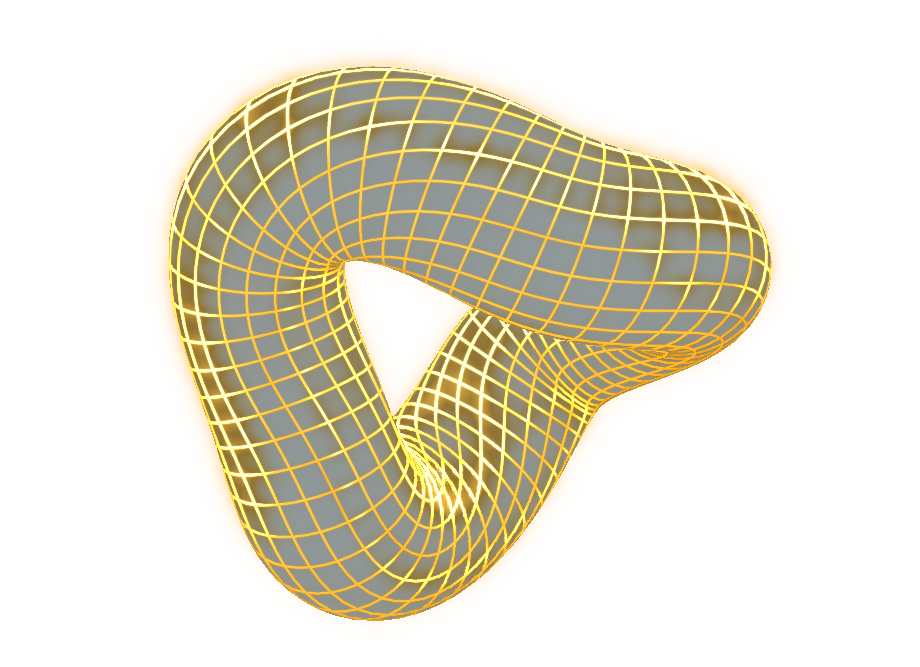
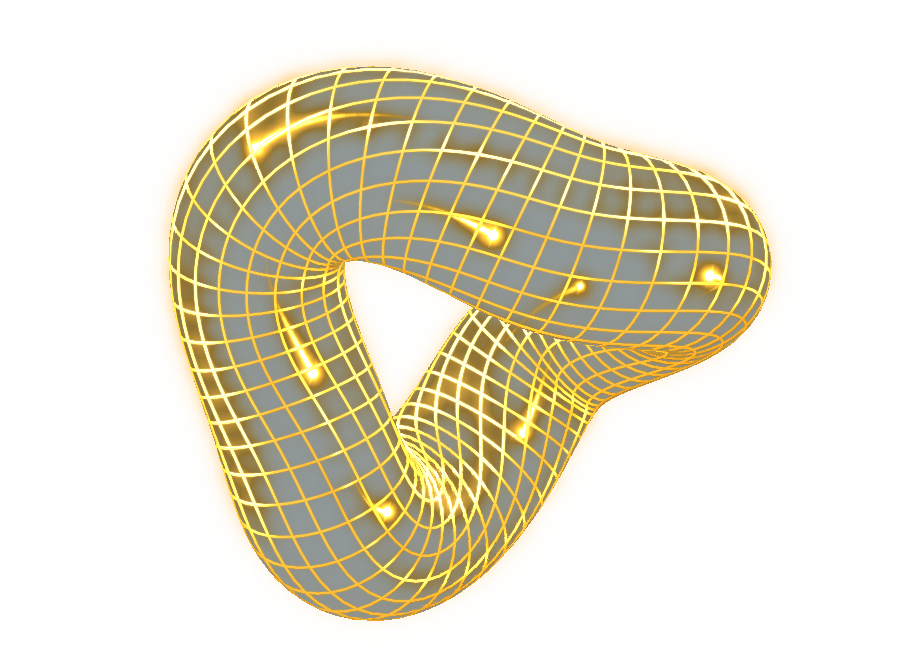
Animate seven gold meteors inside the rolling mesh

diff --git a/showcase/assets/manifold-motion.js b/showcase/assets/manifold-motion.js
@@ -22,10 +22,10 @@
 
   // An orthonormal frame keeps the tube circular even on steep bends.
   // The longitudinal grid rotates half a turn before the two ends meet.
-  function surface(u, v) {
+  function surface(u, v, radialFraction=1) {
     const cu=Math.cos(u), su=Math.sin(u);
     const major=1.35+.155*Math.cos(3*u+.4);
-    const radius=.605+.035*Math.sin(2*u-.45);
+    const radius=radialFraction*(.605+.035*Math.sin(2*u-.45));
     const majorSlope=-.465*Math.sin(3*u+.4);
     const tx=majorSlope*cu-major*su, ty=majorSlope*su+major*cu;
     const tz=.99*Math.cos(2*u+.6);
@@ -239,6 +239,96 @@
     }
   }
 
+  // The seven lanes share the mesh's centreline and stay inside its wall.
+  const meteors = [
+    {start:.025, turns:1, lane:.26, spread:.48, tail:.56},
+    {start:.171, turns:-1, lane:2.3, spread:.38, tail:.49},
+    {start:.315, turns:1, lane:4.8, spread:.55, tail:.58},
+    {start:.456, turns:2, lane:1.4, spread:.44, tail:.63},
+    {start:.607, turns:1, lane:3.6, spread:.33, tail:.47},
+    {start:.751, turns:-1, lane:5.4, spread:.50, tail:.55},
+    {start:.879, turns:1, lane:2.8, spread:.46, tail:.52}
+  ];
+  let meteorLight;
+  const illuminated = [];
+  const tailSteps = 18;
+  function meteorPosition(meteor,u,camera) {
+    // Cancel the wall's half-twist so each interior path joins after one turn.
+    const lane=meteor.lane+.85*Math.sin(2*u+meteor.lane)-u*.5;
+    const p=surface(u,lane,meteor.spread);
+    const depth=camera.zx*p.x+camera.zy*p.y+camera.zz*p.z;
+    const scale=130*pixelScale/(1-depth/13);
+    return {
+      x:width*pixelScale*.5+scale*(camera.xx*p.x+camera.xy*p.y+camera.xz*p.z),
+      y:height*pixelScale*.5-scale*(camera.yx*p.x+camera.yy*p.y+camera.yz*p.z),
+      depth, scale:scale/130
+    };
+  }
+  function lightMeteorPixel(k,z,brightness) {
+    const separation=depths[k]-z;
+    if(separation<0) return;
+    // Opaque wires hide the meteor. The far bend also dims it at crossings.
+    const transmission=(255-(pixels[k]>>>24))/138;
+    const strength=Math.round(255*clamp(brightness*transmission/(1+.55*Math.max(0,separation-.8))));
+    if(strength<=meteorLight[k]) return;
+    if(!meteorLight[k]) illuminated.push(k);
+    meteorLight[k]=strength;
+  }
+  function meteorSegment(a,b,fraction) {
+    const dx=b.x-a.x, dy=b.y-a.y, lengthSq=dx*dx+dy*dy;
+    const radius=(.65+2.7*fraction)*b.scale;
+    const reach=3.6*radius, w=canvas.width;
+    for(let y=Math.max(0,Math.floor(Math.min(a.y,b.y)-reach));y<=Math.min(canvas.height-1,Math.ceil(Math.max(a.y,b.y)+reach));y++) {
+      for(let x=Math.max(0,Math.floor(Math.min(a.x,b.x)-reach));x<=Math.min(w-1,Math.ceil(Math.max(a.x,b.x)+reach));x++) {
+        const px=x+.5-a.x, py=y+.5-a.y;
+        const t=clamp((px*dx+py*dy)/Math.max(.001,lengthSq));
+        const d2=((px-t*dx)**2+(py-t*dy)**2)/(radius*radius);
+        if(d2>12) continue;
+        const body=1/(1+3*d2*d2), glow=.28/(1+d2);
+        lightMeteorPixel(y*w+x,a.depth+t*(b.depth-a.depth),fraction**1.18*(body+glow));
+      }
+    }
+  }
+  function meteorHead(p) {
+    const w=canvas.width, reach=Math.ceil(12*p.scale);
+    for(let y=Math.max(0,Math.floor(p.y-reach));y<=Math.min(canvas.height-1,p.y+reach);y++) {
+      for(let x=Math.max(0,Math.floor(p.x-reach));x<=Math.min(w-1,p.x+reach);x++) {
+        const dx=(x+.5-p.x)/p.scale, dy=(y+.5-p.y)/p.scale;
+        const r2=dx*dx+dy*dy;
+        const core=1.55/(1+(r2/14)**2);
+        const glint=.65*clamp(1-Math.abs(dx+.32*dy)/1.5)*clamp(1-Math.abs(dy)/11);
+        lightMeteorPixel(y*w+x,p.depth,core+glint+.42/(1+r2/30));
+      }
+    }
+  }
+  function drawMeteors(phase,camera) {
+    for(const meteor of meteors) {
+      const u=tau*(meteor.start+phase*meteor.turns);
+      const tail=Math.sign(meteor.turns)*meteor.tail;
+      let previous=meteorPosition(meteor,u-tail,camera);
+      for(let step=1;step<=tailSteps;step++) {
+        const fraction=step/tailSteps;
+        const next=meteorPosition(meteor,u-tail*(1-fraction),camera);
+        meteorSegment(previous,next,fraction);
+        previous=next;
+      }
+      meteorHead(previous);
+    }
+    for(const k of illuminated) {
+      const intensity=meteorLight[k]/255;
+      const old=pixels[k], alpha=(old>>>24)/255;
+      const outputAlpha=intensity+alpha*(1-intensity);
+      const oldWeight=alpha*(1-intensity)/outputAlpha, weight=intensity/outputAlpha;
+      const r=Math.round((old&255)*oldWeight+255*weight);
+      const g=Math.round(((old>>>8)&255)*oldWeight+(155+100*intensity)*weight);
+      const b=Math.round(((old>>>16)&255)*oldWeight+(20+212*intensity**3)*weight);
+      pixels[k]=(Math.round(255*outputAlpha)<<24)|(b<<16)|(g<<8)|r;
+      emission[k]=Math.max(emission[k],meteorLight[k]);
+      meteorLight[k]=0;
+    }
+    illuminated.length=0;
+  }
+
   function draw(seconds) {
     const phase=seconds/period, angle=tau*phase;
     const cy=Math.cos(angle), sy=Math.sin(angle);
@@ -268,6 +358,7 @@
       triangle(a,b,c,patch,false,pulse);
       triangle(a,c,d,patch,true,pulse);
     }
+    drawMeteors(phase,{xx,xy,xz,yx,yy,yz,zx,zy,zz});
     ctx.putImageData(image,0,0);
     compositeBloom();
   }
@@ -287,6 +378,7 @@
       pixels=new Uint32Array(image.data.buffer);
       depths=new Float32Array(w*h);
       emission=new Uint8Array(w*h);
+      meteorLight=new Uint8Array(w*h);
       resizeBloom(w,h);
       pixelScale=w/width;
       draw(elapsed);

diff --git a/showcase/metacore.html b/showcase/metacore.html
@@ -11,7 +11,7 @@
   <link rel="stylesheet" href="assets/style.css">
   <link rel="stylesheet" href="assets/product.css">
   <link rel="stylesheet" href="assets/manifold-motion.css?v=polished-gold">
-  <script src="assets/manifold-motion.js?v=gold-bloom" defer></script>
+  <script src="assets/manifold-motion.js?v=seven-meteors" defer></script>
   <script src="assets/site.js" defer></script>
 </head>
 <body><a class="skip" href="#main">跳至主要內容</a>
@@ -31,7 +31,7 @@
   <div><div class="eyebrow" lang="en">YUANHONG INVESTMENT</div><h1 class="product-heading" lang="en">MetaCore</h1><p class="prod-class">跨市場量化研究 App</p>
   <p class="prod-desc">股票、期貨與外匯的資料進入同一套研究系統。四個模型分別處理市場狀態、非線性走勢、線性關係與部位大小。</p><a class="cta gold-btn" href="#architecture">查看系統架構 <span class="arrow" aria-hidden="true">↓</span></a></div><figure class="product-art manifold-figure">
     <div class="manifold-stage">
-      <img src="assets/manifold-gold.webp?v=gold-bloom" width="960" height="696" alt="">
+      <img src="assets/manifold-gold.webp?v=seven-meteors" width="960" height="696" alt="">
       <canvas width="800" height="580" hidden aria-hidden="true"></canvas>
     </div>
     <figcaption class="manifold-caption"><span>Manifold Monolith · 流形曲面示意</span><button class="manifold-toggle" type="button" aria-label="暫停流形動畫" hidden></button></figcaption>

diff --git a/showcase/index.html b/showcase/index.html
@@ -19,7 +19,7 @@
   <link rel="stylesheet" href="assets/style.css">
   <link rel="stylesheet" href="assets/product.css">
   <link rel="stylesheet" href="assets/manifold-motion.css?v=polished-gold">
-  <script src="assets/manifold-motion.js?v=gold-bloom" defer></script>
+  <script src="assets/manifold-motion.js?v=seven-meteors" defer></script>
   <script src="assets/site.js" defer></script>
 </head>
 <body><a class="skip" href="#main">跳至主要內容</a>
@@ -49,7 +49,7 @@
   <div><div class="eyebrow" lang="en">QUANTITATIVE RESEARCH APP</div><h2 class="product-heading" id="product-home-title" lang="en">MetaCore</h2><p class="prod-class">跨市場量化研究 App</p>
   <p class="prod-desc">從市場狀態、價格走勢到部位大小，了解 MetaCore 如何在同一套架構下研究股票、期貨與外匯。</p><a class="cta outline-btn" href="metacore.html">探索 MetaCore <span class="arrow" aria-hidden="true">→</span></a></div><figure class="product-art manifold-figure">
     <div class="manifold-stage">
-      <img src="assets/manifold-gold.webp?v=gold-bloom" width="960" height="696" alt="">
+      <img src="assets/manifold-gold.webp?v=seven-meteors" width="960" height="696" alt="">
       <canvas width="800" height="580" hidden aria-hidden="true"></canvas>
     </div>
     <figcaption class="manifold-caption"><span>流形曲面示意</span><button class="manifold-toggle" type="button" aria-label="暫停流形動畫" hidden></button></figcaption>
